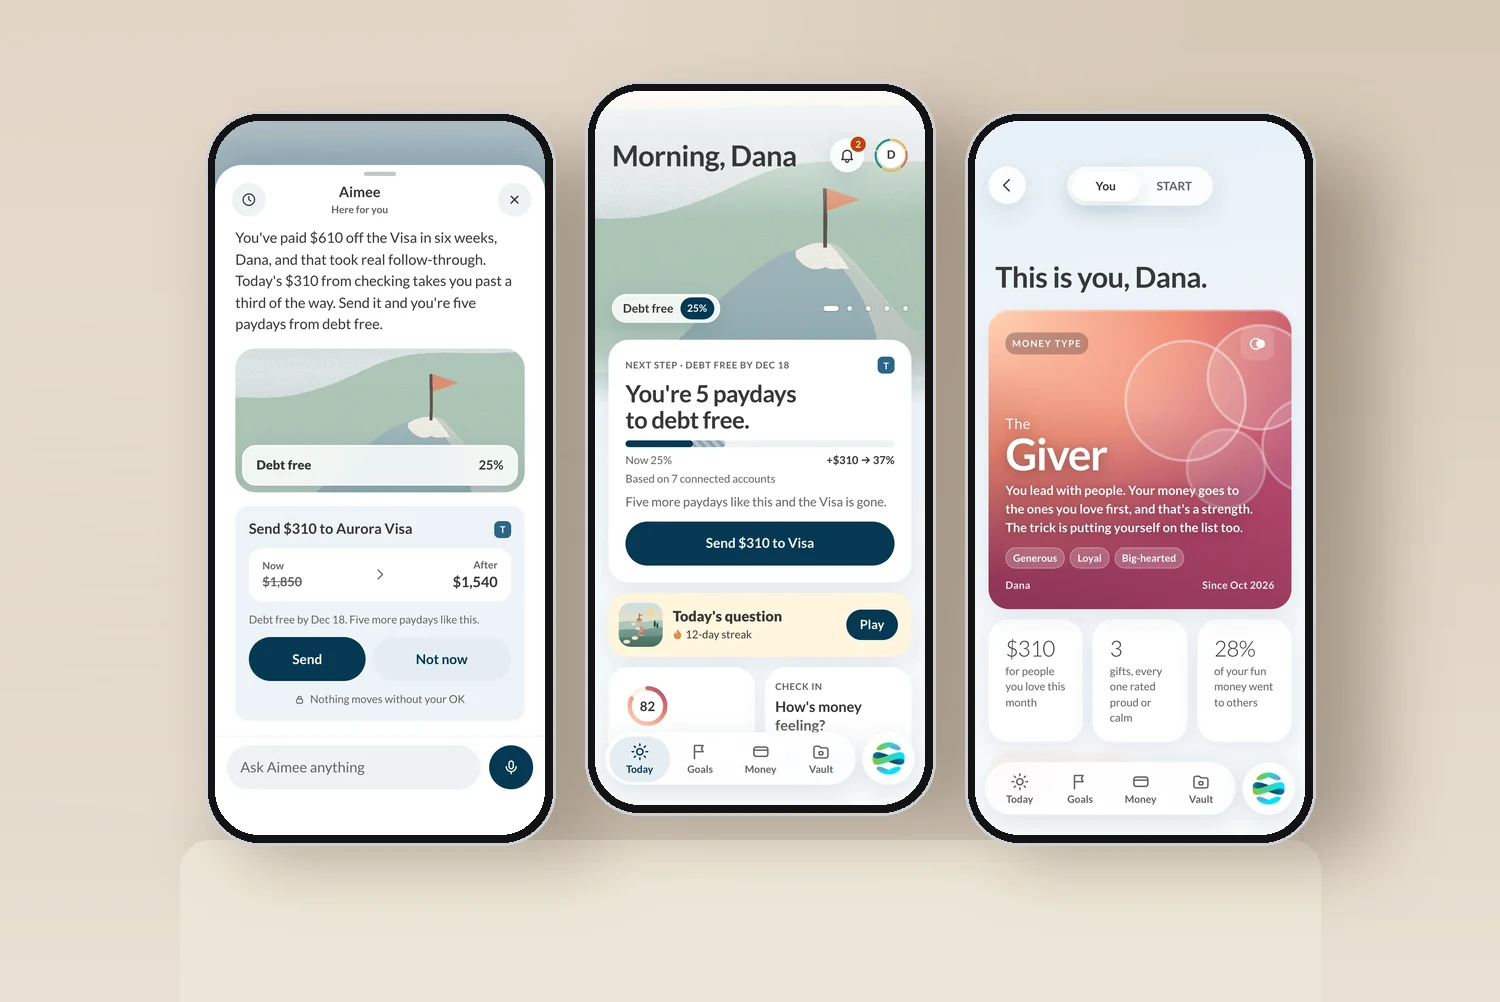
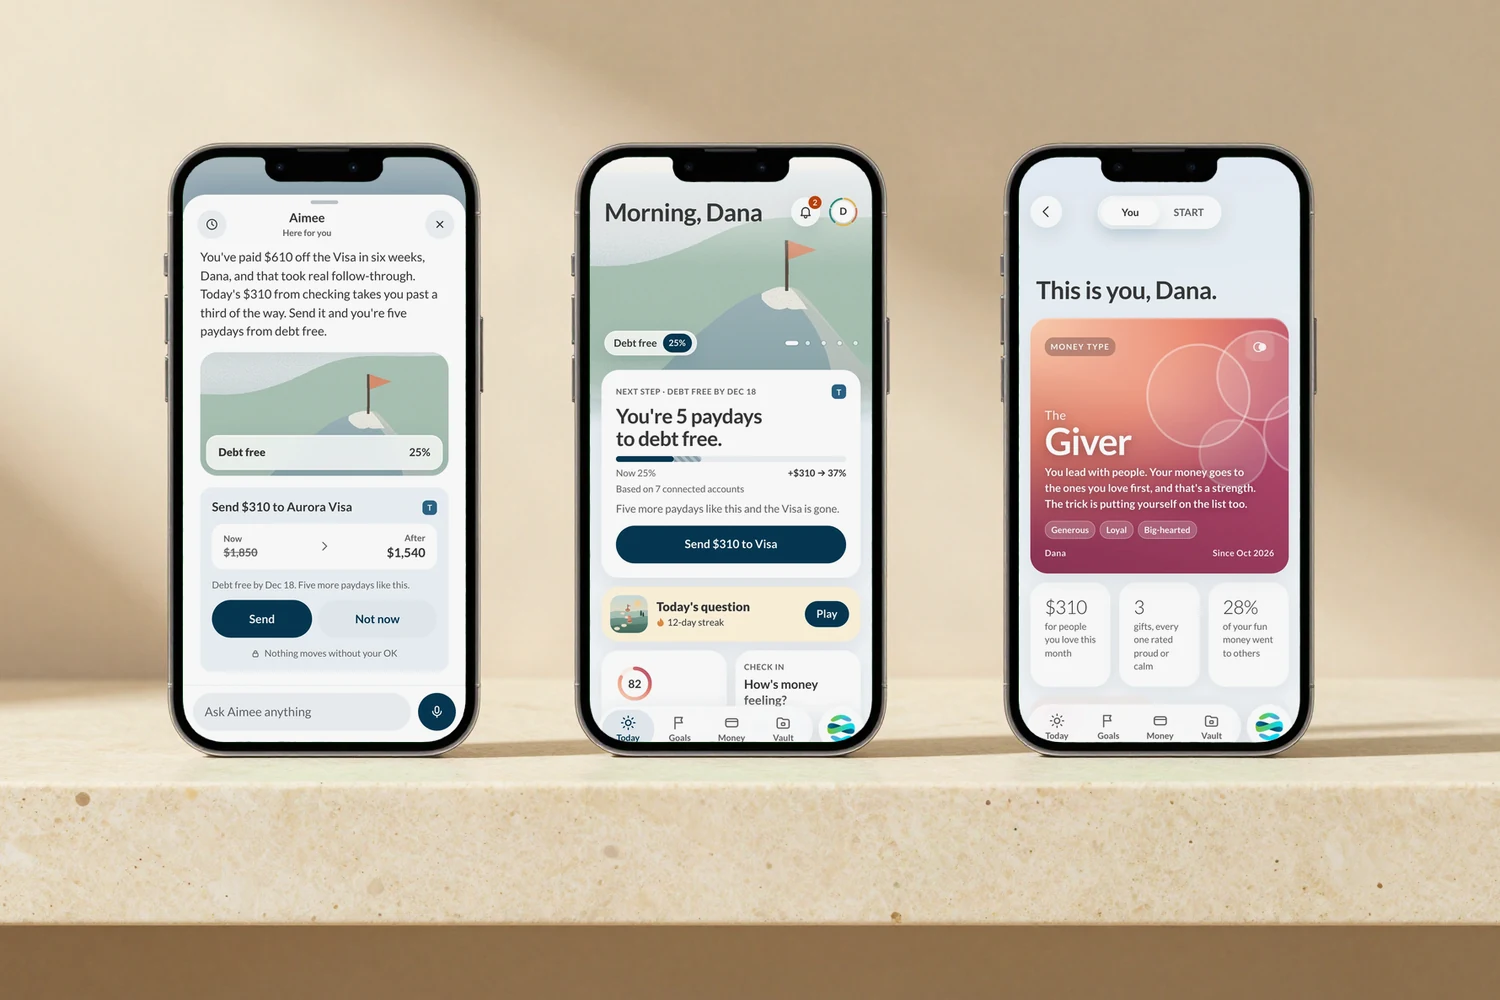
Replace the Finesse App placeholder thumbnail with a studio photo that matches the other Work cards, with the real app screens keyed onto the phones.

diff --git a/work/index.html b/work/index.html
@@ -318,7 +318,7 @@
         <!-- Card: Finesse App -->
         <article class="work-card">
           <div class="work-card-image" style="background: #E3D8CA;">
-            <div class="work-card-image-inner"><a href="../work/finesse-app/" aria-hidden="true" tabindex="-1"><img src="/images/finesse-card.webp" alt="Finesse App — three phone screens: Aimee's approval card, the Today screen, and a money-type card" loading="lazy" width="1500" height="1002"></a></div>
+            <div class="work-card-image-inner"><a href="../work/finesse-app/" aria-hidden="true" tabindex="-1"><img src="/images/finesse-card.webp" alt="Finesse App — three phones on a travertine ledge showing Aimee's approval card, the Today screen, and a money-type card" loading="lazy" width="1500" height="1000"></a></div>
           </div>
           <div class="work-card-body">
             <div class="work-card-tags">

diff --git a/CLAUDE.md b/CLAUDE.md
@@ -413,7 +413,7 @@ Padding: `13px 24px` (primary/secondary), `13px 18px` (ghost).
 
 | Date | Change |
 |---|---|
-| 2026-10-23 | **New case study: Finesse App** (`work/finesse-app/`), the consumer "muse for your money" prototype with Aimee. Bri asked for a much simpler, scannable format: a "Gallery" layout with no chapter rail, where each of eight sections is a headline, one sentence, and two or three phone screens (a swipe carousel under 760px). The hero phones sit on the app's painted-sky gradient. 17 phone screens captured at 3× from the prototype repo (`Financial-Finesse/ff-b2c-demo`, run locally without its password Worker) into `images/Finesse App Case Study/`; capture scripts in `.scratch/muse/`. Work card added second on `/work/` and to the homepage `CASE_STUDIES`; browser audit now expects 5 cards. `finesse-card.webp` is a PIL placeholder in the warm studio palette: the photoreal studio thumbnail still needs an image model (Gemini quota was out, Higgsfield needs `higgsfield auth login`). Facts in `facts.md` §11. Verified 1440/390/320 both themes, no overflow or broken images, audit 49/49, Brix probe 61/62. |
+| 2026-10-23 | **New case study: Finesse App** (`work/finesse-app/`), the consumer "muse for your money" prototype with Aimee. Bri asked for a much simpler, scannable format: a "Gallery" layout with no chapter rail, where each of eight sections is a headline, one sentence, and two or three phone screens (a swipe carousel under 760px). The hero phones sit on the app's painted-sky gradient. 17 phone screens captured at 3× from the prototype repo (`Financial-Finesse/ff-b2c-demo`, run locally without its password Worker) into `images/Finesse App Case Study/`; capture scripts in `.scratch/muse/`. Work card added second on `/work/` and to the homepage `CASE_STUDIES`; browser audit now expects 5 cards. `finesse-card.webp` (1500×1000) matches the other studio thumbnails: a Higgsfield Z Image scene (beige wall, window light, travertine ledge, three phones with chroma-green screens) with the real app screens keyed in by `.scratch/muse/thumb/composite.py`. Generated screens are never used, because model-drawn UI garbles text. The Higgsfield workspace is on the free plan; GPT Image 2/2.5 need Basic. Facts in `facts.md` §11. Verified 1440/390/320 both themes, no overflow or broken images, audit 49/49, Brix probe 61/62. |
 | 2026-10-15 | **GCS follow-ups: the hero shows the thesis.** Hero video is now `gcs-accuracy-check.mp4` (21 s, native speed, 1400×786, 2.1 MB, H.264 crf 26 faststart) cut from the old 62 s recording at 37.5–58.5 s and cropped to the editor + accuracy-check panel, so the "7 to review" flags are legible at container width; poster `gcs-accuracy-check-poster.jpg` at t=10 s. Caption states honestly that the flags belong to the Canadian draft while the Italian one streams. The 2× `playbackRate` script is gone (reduced-motion handling stays). Old `gcs-localize-article-compatible.mp4` + poster deleted (5.4 MB off the deploy; git history keeps them). **Decisions moved above the Workflow** (jump-nav and the Problem skip link follow; "status rules above" → "in the workflow below"). Problem bullets 4 → 2; Pipeline intro 3 sentences. |
 | 2026-10-15 | **GCS tightened for a 30-second principal-designer scan.** Reviewed against 2026 AI-native senior PD job descriptions (Apple "Senior Product Designer, UI/UX & AI Systems", Oura "Senior AI-Native Product Designer", Databricks AI/BI, Anthropic Claude Code PD). Page went 3,216 → ~2,800 words and 19.8k → 17.5k px tall. **Hero** lead cut to two sentences; third hero stat is now `4 weeks` (velocity) instead of a second locale count that read as 25-vs-28 confusion. **At a glance**: shorter TL;DR, new `.signal-row` capability chips (JD vocabulary, each a deep link to its proof section), `Stack` row added, "Collaborators" → "Team". **Building with AI** 7 → 5 steps (options merged, "what I did not accept" folded into "where AI did the work", shipped + limits merged). **Proof** and **Timeline** sections removed: the proof grid repeated 8,118 a fourth time and the five-way breakdown did not sum (ledger note); the timeline rows reused `.transform-from`, whose `line-through` struck every date out (visible bug). The live-article figure and the "counts from the live index, code is private" line now live in **Impact**; `#proof` and `#process` survive as `.anchor-alias` spans so Brix deep links still land. **Architecture** SVG labels moved off the Anthropic and Azure boxes (they overlapped). Verified at 1440/390/320: no overflow, all in-page anchors resolve, no console errors. Probe untouched (KB unchanged). |
 | 2026-10-13 | **Implemented the October handoff brief (`docs/claude-code-portfolio-handoff.md`) on branch `feat/ai-native-senior-pd`.** Baseline: live site == `origin/main`; the stale `a11y-seo-brix-fixes` branch had forked in July, so a fresh branch was cut from main and only its docs + two GCS demo screenshots were carried over. **Evidence ledger** `docs/portfolio-evidence.md` created (claims, sources, status, wording, and the batched questions for Bri). **Brix:** the six live-review failures fixed with honest entries (research → the documented en-GB fit-check finding + "no user-research example is published"; PM disagreement → "not documented" + the overwrite incident; 200% measurement and $12M → "not published here, internal reporting"; Aimee usage → eligibility ≠ usage, no active-user data; strongest → Studio with a direct link; remote → remote only); new "how she builds with AI" entry (Claude Code + Anthropic API only); generic `experience` entry vetoed on "experience with X"; start-date and TypeScript misroutes fixed; fake thinking delay removed; recents persist; panel hash preserved (every `#section` link had been landing at the top). Probe: 62 questions, 61 confident, 20 routing + 20 answer-content checks, all green. **Homepage:** supporting line under the tagline, shortcut row, doors navigate to full pages, panel action labeled, hint reads "Brix searches a curated knowledge base about Bri". **GCS** rewritten: short headline, author + localizer workflow with teaching captions, four decisions (score routes/doesn't gate; Worker last), **Building with AI** section tracing the verify stage end to end with confirmed tools only, the **overwrite incident** as a featured design story (what happened / what people lost / what changed / what validates it), architecture moved after decisions, cost line replaced by a labeled model (37,000 h ≈ $2.2M at stated assumptions; $21,287 and the Federal Reserve quote retired), 1M+ removed, Next → Aimee. **Aimee:** scope labeled as scope, "1:1" gone, deployment narrowed to "merged into the production SDK", new **Trust and failure states** section (disclaimer, feedback row, prose-first gating, human within reach, restraint, and what is NOT documented), the 14.5px drift catch as the collaboration example, consistent-vs-adapted per surface, usage limitation stated. **Hub:** short truthful account; +200% only "per internal reporting"; $12M moved to a qualified footnote; "Fortune 500 clients won" removed; screenshots dated and the Aimee-era one separated; Next → Brix. **Résumé:** bullets reframed around problem → judgment → AI-assisted execution → sourced result; `$12M` stat replaced by 28 locales; PDF regenerated: print bullets were `position: relative`, which paints them last and put them after Education in pypdf's text stream (now `position: static` with an inline dash), real "·" separators in the contact row and education line; one page; verified with pypdf (plain + layout) and pdfminer. **About** opens with the role; **Contact** says remote; **Work** reordered with reconciled descriptions; **Brix case study** and **Code** carry the dated actuals (61/62 probe, 49/49 audit, Oct 13, 2026). Audit script: stale "4 starter cards" check replaced by doors/supporting line/shortcut row/no-fake-thinking/panel-label/deep-link checks (49 total). Validated: 320/390/768/1440, both themes, reduced motion, no-JS, keyboard order, Back, Cmd-click, panel focus restoration, anchors. Not pushed to `main`; nothing deployed. |
